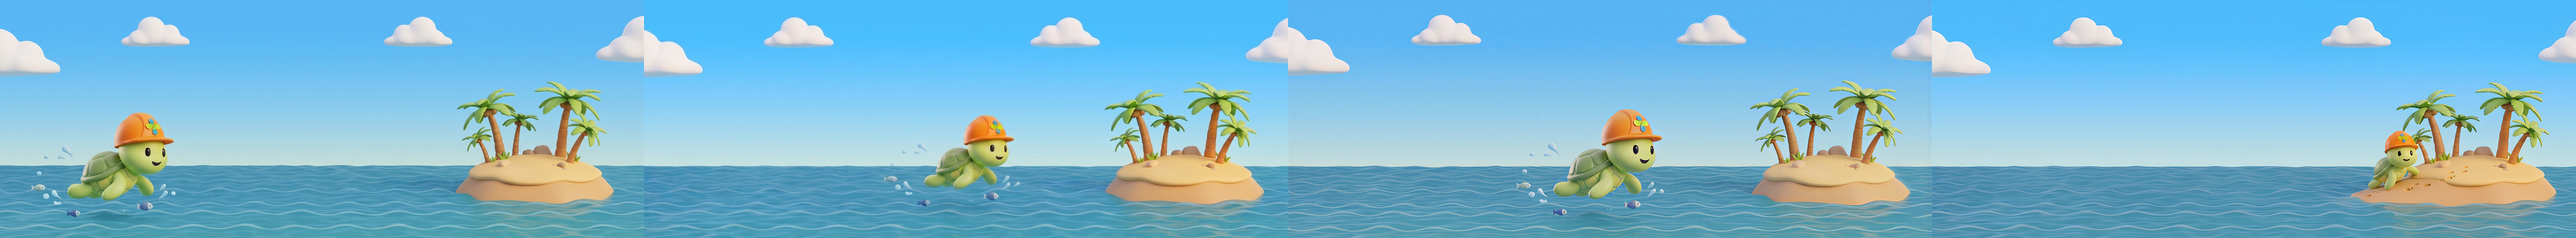
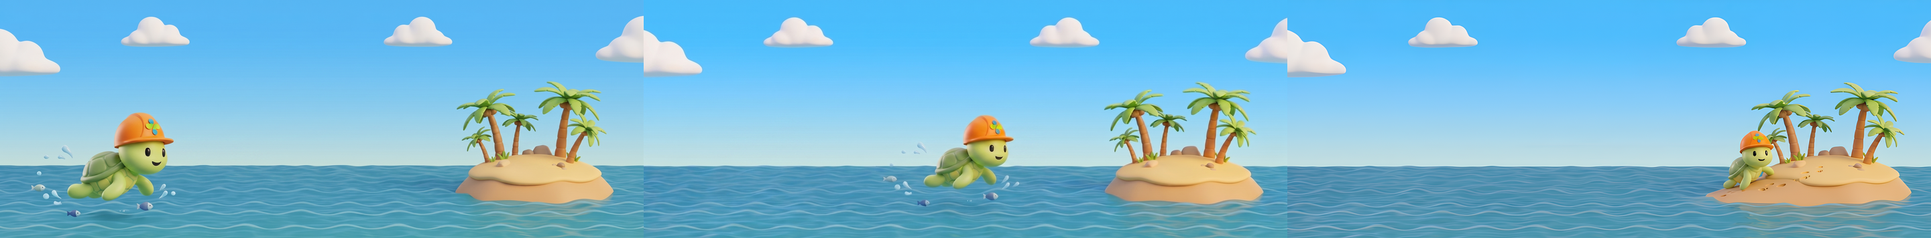
fix(ui): 로딩 이미지 수정 및 프로젝트 목록 카드 보기 추가

diff --git a/src/app/projects/page.tsx b/src/app/projects/page.tsx
@@ -85,6 +85,7 @@ export default function ProjectsPage() {
   const [status, setStatus] = useState(filterOptions.statuses[0] || '전체');
   const [sortBy, setSortBy] = useState<ProjectSortField>('name');
   const [sortDirection, setSortDirection] = useState<SortDirection>('asc');
+  const [viewMode, setViewMode] = useState<'list' | 'card'>('list');
 
   const loadProjects = useCallback(() => {
     let alive = true;
@@ -288,7 +289,7 @@ export default function ProjectsPage() {
           <div style={{ fontSize: 12, fontWeight: 900, color: C.g600 }}>전체 {visibleProjects.length}건</div>
         </div>
 
-        <div data-ui="projects.1" style={{ display: 'grid', gridTemplateColumns: 'minmax(145px, 1.1fr) minmax(110px, .85fr) minmax(105px, .78fr) minmax(105px, .78fr) minmax(214px, 1.45fr)', gap: 8, marginBottom: 12 }}>
+        <div data-ui="projects.1" style={{ display: 'grid', gridTemplateColumns: 'minmax(145px, 1.1fr) minmax(110px, .85fr) minmax(105px, .78fr) minmax(105px, .78fr) minmax(190px, 1.25fr) 164px', gap: 8, marginBottom: 12 }}>
           <input aria-label="프로젝트명" value={projectName} onChange={(event) => setProjectName(event.target.value)} placeholder="프로젝트 검색" style={inputStyle} />
           <input aria-label="계약번호" value={contractNumber} onChange={(event) => setContractNumber(event.target.value)} placeholder="계약번호" style={inputStyle} />
           <select aria-label="관리자" value={manager} onChange={(event) => setManager(event.target.value)} style={inputStyle}>
@@ -306,9 +307,27 @@ export default function ProjectsPage() {
             }}
             buttonStyle={inputStyle}
           />
+          <div aria-label="보기 방식" style={{ display: 'grid', gridTemplateColumns: '1fr 1fr', gap: 4, height: 38, padding: 3, border: `1px solid ${C.g200}`, borderRadius: 8, background: '#F7F8F7', boxSizing: 'border-box' }}>
+            {[
+              { key: 'list' as const, label: '목록' },
+              { key: 'card' as const, label: '카드' },
+            ].map((option) => {
+              const active = viewMode === option.key;
+              return (
+                <button
+                  key={option.key}
+                  type="button"
+                  onClick={() => setViewMode(option.key)}
+                  style={{ border: 'none', borderRadius: 6, background: active ? C.white : 'transparent', color: active ? C.primary : C.g600, fontFamily: 'inherit', fontSize: 12, fontWeight: 900, cursor: 'pointer', boxShadow: active ? '0 1px 4px rgba(31,55,43,.08)' : 'none' }}
+                >
+                  {option.label}
+                </button>
+              );
+            })}
+          </div>
         </div>
 
-        <div data-ui="projects.3" style={{ overflowX: 'auto', overflowY: 'visible', minHeight: 320, border: `1px solid ${C.g100}`, borderRadius: 8 }}>
+        {viewMode === 'list' ? <div data-ui="projects.3" style={{ overflowX: 'auto', overflowY: 'visible', minHeight: 320, border: `1px solid ${C.g100}`, borderRadius: 8 }}>
           <table style={{ minWidth: user.role !== 'project_manager' ? 1020 : 920, width: '100%', borderCollapse: 'collapse' }}>
             <thead>
               <tr>
@@ -351,15 +370,15 @@ export default function ProjectsPage() {
                 const progress = Math.min(100, Math.max(0, Number.parseInt(project.progressRate, 10) || 0));
                 const safetyBudgetUsage = Number.parseFloat(String(project.usageRate).replace(/[^\d.]/g, '')) || 0.1;
                 return (
-                  <tr key={project.id} onClick={() => router.push(`/projects/${project.id}`)} style={{ cursor: 'pointer' }}>
-                    <td style={{ padding: '13px 14px', borderTop: `1px solid ${C.g100}`, color: C.g800, fontSize: 13, fontWeight: 900 }}>
+                  <tr key={project.id} onClick={() => router.push(`/projects/${project.id}`)} style={{ cursor: 'pointer', background: hasSupplementRequiredMonth(project) ? '#FFF5F6' : C.white }}>
+                    <td style={{ padding: '13px 14px', borderTop: `1px solid ${hasSupplementRequiredMonth(project) ? '#F2C4C9' : C.g200}`, color: C.g800, fontSize: 13, fontWeight: 900 }}>
                       <span style={{ display: 'inline-flex', alignItems: 'center', gap: 8, minWidth: 0 }}>
                         {hasSupplementRequiredMonth(project) && <span aria-hidden="true" style={{ width: 8, height: 8, borderRadius: 999, background: C.danger, boxShadow: '0 0 0 3px rgba(229,57,53,.14)', flexShrink: 0 }} />}
                         <span style={{ whiteSpace: 'nowrap' }}>{project.constructionName}</span>
                       </span>
                     </td>
-                    <td style={{ padding: '13px 14px', borderTop: `1px solid ${C.g100}`, color: C.g600, fontSize: 13, fontWeight: 800, whiteSpace: 'nowrap' }}>{project.contractNumber}</td>
-                    <td style={{ padding: '13px 14px', borderTop: `1px solid ${C.g100}`, minWidth: 150 }}>
+                    <td style={{ padding: '13px 14px', borderTop: `1px solid ${hasSupplementRequiredMonth(project) ? '#F2C4C9' : C.g200}`, color: C.g600, fontSize: 13, fontWeight: 800, whiteSpace: 'nowrap' }}>{project.contractNumber}</td>
+                    <td style={{ padding: '13px 14px', borderTop: `1px solid ${hasSupplementRequiredMonth(project) ? '#F2C4C9' : C.g200}`, minWidth: 150 }}>
                       <div style={{ display: 'grid', gridTemplateColumns: 'minmax(0,1fr) 34px', gap: 8, alignItems: 'center' }}>
                         <div style={{ height: 8, background: '#E8EEEB', borderRadius: 999, overflow: 'hidden' }}>
                           <div style={{ width: `${progress}%`, height: '100%', background: progress >= 70 ? C.primary : progress >= 30 ? '#2F73B7' : '#C9545E' }} />
@@ -367,7 +386,7 @@ export default function ProjectsPage() {
                         <span style={{ textAlign: 'right', fontSize: 12, fontWeight: 900, color: C.g800 }}>{progress}%</span>
                       </div>
                     </td>
-                    <td style={{ padding: '13px 14px', borderTop: `1px solid ${C.g100}`, minWidth: 150 }}>
+                    <td style={{ padding: '13px 14px', borderTop: `1px solid ${hasSupplementRequiredMonth(project) ? '#F2C4C9' : C.g200}`, minWidth: 150 }}>
                       <div style={{ display: 'grid', gridTemplateColumns: 'minmax(0,1fr) 42px', gap: 8, alignItems: 'center' }}>
                         <div style={{ height: 8, background: '#E8EEEB', borderRadius: 999, overflow: 'hidden' }}>
                           <div style={{ width: `${Math.max(2, Math.min(100, safetyBudgetUsage))}%`, height: '100%', background: safetyBudgetUsage >= 80 ? '#C9545E' : safetyBudgetUsage >= 50 ? '#F0A22E' : C.primary }} />
@@ -375,10 +394,10 @@ export default function ProjectsPage() {
                         <span style={{ textAlign: 'right', fontSize: 12, fontWeight: 900, color: C.g800 }}>{safetyBudgetUsage}%</span>
                       </div>
                     </td>
-                    <td style={{ padding: '13px 14px', borderTop: `1px solid ${C.g100}`, color: C.g600, fontSize: 13, fontWeight: 800, whiteSpace: 'nowrap' }}>{project.period || '-'}</td>
-                    <td style={{ padding: '13px 14px', borderTop: `1px solid ${C.g100}`, color: C.g800, fontSize: 13, fontWeight: 800, whiteSpace: 'nowrap' }}>{project.manager}</td>
+                    <td style={{ padding: '13px 14px', borderTop: `1px solid ${hasSupplementRequiredMonth(project) ? '#F2C4C9' : C.g200}`, color: C.g600, fontSize: 13, fontWeight: 800, whiteSpace: 'nowrap' }}>{project.period || '-'}</td>
+                    <td style={{ padding: '13px 14px', borderTop: `1px solid ${hasSupplementRequiredMonth(project) ? '#F2C4C9' : C.g200}`, color: C.g800, fontSize: 13, fontWeight: 800, whiteSpace: 'nowrap' }}>{project.manager}</td>
                     {user.role !== 'project_manager' && (
-                      <td style={{ padding: '10px 14px', borderTop: `1px solid ${C.g100}`, whiteSpace: 'nowrap' }}>
+                      <td style={{ padding: '10px 14px', borderTop: `1px solid ${hasSupplementRequiredMonth(project) ? '#F2C4C9' : C.g200}`, whiteSpace: 'nowrap' }}>
                         <button
                           type="button"
                           onClick={(event) => {
@@ -397,7 +416,89 @@ export default function ProjectsPage() {
               })}
             </tbody>
           </table>
-        </div>
+        </div> : (
+          <div data-ui="projects.card-grid" style={{ minHeight: 320, display: 'grid', gridTemplateColumns: 'repeat(auto-fill, minmax(260px, 1fr))', gap: 12 }}>
+            {loading && <div style={{ gridColumn: '1 / -1', minHeight: 160, display: 'grid', placeItems: 'center', border: `1px solid ${C.g100}`, borderRadius: 12, color: C.g400, fontSize: 13, fontWeight: 900 }}>프로젝트 목록을 불러오는 중입니다.</div>}
+            {!loading && loadError && <div style={{ gridColumn: '1 / -1', minHeight: 160, display: 'grid', placeItems: 'center', border: `1px solid ${C.g100}`, borderRadius: 12, color: C.danger, fontSize: 13, fontWeight: 900 }}>{loadError}</div>}
+            {!loading && !loadError && visibleProjects.length === 0 && <div style={{ gridColumn: '1 / -1', minHeight: 160, display: 'grid', placeItems: 'center', border: `1px solid ${C.g100}`, borderRadius: 12, color: C.g400, fontSize: 13, fontWeight: 900 }}>조회된 프로젝트가 없습니다.</div>}
+            {!loading && !loadError && visibleProjects.map((project) => {
+              const progress = Math.min(100, Math.max(0, Number.parseInt(project.progressRate, 10) || 0));
+              const safetyBudgetUsage = Number.parseFloat(String(project.usageRate).replace(/[^\d.]/g, '')) || 0.1;
+              const hasSupplement = hasSupplementRequiredMonth(project);
+              return (
+                <div
+                  key={project.id}
+                  role="button"
+                  tabIndex={0}
+                  onClick={() => router.push(`/projects/${project.id}`)}
+                  onKeyDown={(event) => {
+                    if (event.key !== 'Enter' && event.key !== ' ') return;
+                    event.preventDefault();
+                    router.push(`/projects/${project.id}`);
+                  }}
+                  style={{ position: 'relative', minHeight: 218, padding: 16, border: `1px solid ${hasSupplement ? '#EFAEB7' : C.g200}`, borderRadius: 14, background: hasSupplement ? '#FFF5F6' : C.white, boxShadow: '0 12px 28px rgba(31,55,43,.08)', textAlign: 'left', fontFamily: 'inherit', cursor: 'pointer', display: 'flex', flexDirection: 'column', gap: 14 }}
+                >
+                  {hasSupplement && <span aria-hidden="true" style={{ position: 'absolute', top: 16, right: 16, width: 9, height: 9, borderRadius: 999, background: C.danger, boxShadow: '0 0 0 4px rgba(229,57,53,.13)' }} />}
+                  <div style={{ minWidth: 0, paddingRight: hasSupplement ? 16 : 0 }}>
+                    <div title={project.constructionName} style={{ fontSize: 16, fontWeight: 900, color: C.g800, whiteSpace: 'nowrap', overflow: 'hidden', textOverflow: 'ellipsis' }}>{project.constructionName}</div>
+                    <div style={{ marginTop: 5, fontSize: 12, fontWeight: 800, color: C.g600 }}>{project.contractNumber}</div>
+                  </div>
+                  <div style={{ display: 'grid', gridTemplateColumns: '1fr 1fr', gap: 8 }}>
+                    <div style={{ border: `1px solid ${C.g200}`, borderRadius: 10, padding: '10px 11px', background: 'transparent' }}>
+                      <div style={{ fontSize: 11, fontWeight: 900, color: C.g600 }}>담당자</div>
+                      <div title={project.manager} style={{ marginTop: 5, fontSize: 13, fontWeight: 900, color: C.g800, whiteSpace: 'nowrap', overflow: 'hidden', textOverflow: 'ellipsis' }}>{project.manager}</div>
+                    </div>
+                    <div style={{ border: `1px solid ${C.g200}`, borderRadius: 10, padding: '10px 11px', background: 'transparent' }}>
+                      <div style={{ fontSize: 11, fontWeight: 900, color: C.g600 }}>공사 기간</div>
+                      <div title={project.period || '-'} style={{ marginTop: 5, fontSize: 13, fontWeight: 900, color: C.g800, whiteSpace: 'nowrap', overflow: 'hidden', textOverflow: 'ellipsis' }}>{project.period || '-'}</div>
+                    </div>
+                  </div>
+                  <div style={{ display: 'grid', gap: 10 }}>
+                    <div>
+                      <div style={{ display: 'flex', alignItems: 'center', justifyContent: 'space-between', gap: 8, marginBottom: 6, fontSize: 12, fontWeight: 900, color: C.g600 }}>
+                        <span>공정률</span>
+                        <span style={{ color: C.g800 }}>{progress}%</span>
+                      </div>
+                      <div style={{ height: 8, borderRadius: 999, background: '#E8EEEB', overflow: 'hidden' }}>
+                        <div style={{ width: `${progress}%`, height: '100%', background: progress >= 70 ? C.primary : progress >= 30 ? '#2F73B7' : '#C9545E' }} />
+                      </div>
+                    </div>
+                    <div>
+                      <div style={{ display: 'flex', alignItems: 'center', justifyContent: 'space-between', gap: 8, marginBottom: 6, fontSize: 12, fontWeight: 900, color: C.g600 }}>
+                        <span>안전관리비 사용률</span>
+                        <span style={{ color: C.g800 }}>{safetyBudgetUsage}%</span>
+                      </div>
+                      <div style={{ height: 8, borderRadius: 999, background: '#E8EEEB', overflow: 'hidden' }}>
+                        <div style={{ width: `${Math.max(2, Math.min(100, safetyBudgetUsage))}%`, height: '100%', background: safetyBudgetUsage >= 80 ? '#C9545E' : safetyBudgetUsage >= 50 ? '#F0A22E' : C.primary }} />
+                      </div>
+                    </div>
+                  </div>
+                  {user.role !== 'project_manager' && (
+                    <span
+                      role="button"
+                      tabIndex={0}
+                      onClick={(event) => {
+                        event.stopPropagation();
+                        setDeleteError('');
+                        setDeleteTarget(project);
+                      }}
+                      onKeyDown={(event) => {
+                        if (event.key !== 'Enter' && event.key !== ' ') return;
+                        event.preventDefault();
+                        event.stopPropagation();
+                        setDeleteError('');
+                        setDeleteTarget(project);
+                      }}
+                      style={{ alignSelf: 'flex-end', marginTop: 'auto', border: `1px solid #FFCDD2`, borderRadius: 999, background: C.dangerBg, color: C.danger, height: 30, padding: '0 12px', display: 'inline-flex', alignItems: 'center', justifyContent: 'center', fontSize: 12, fontWeight: 900, cursor: 'pointer', boxSizing: 'border-box' }}
+                    >
+                      삭제
+                    </span>
+                  )}
+                </div>
+              );
+            })}
+          </div>
+        )}
         <div style={{ display: 'flex', alignItems: 'center', justifyContent: 'space-between', gap: 12, marginTop: 12, color: C.g600, fontSize: 12, fontWeight: 800 }}>
           <span>전체 {projects.length}건</span>
         </div>

diff --git a/src/features/project-tab/VerifyScreen.tsx b/src/features/project-tab/VerifyScreen.tsx
@@ -125,9 +125,9 @@ const extractValidationUsageStatementId = (source: unknown) =>
 const extractValidationRunState = (source: unknown): ValidationRunState => {
   const rawStatus = readNestedStringField(source, ['status', 'statusCode', 'status_code', 'state', 'resultCode', 'result_code']).toLowerCase();
   if (!rawStatus) return 'unknown';
-  if ([AGENT_LOG_STATUS.COMPLETED, AGENT_LOG_STATUS.SUCCEEDED, 'complete', 'done', 'success', 'passed', 'confirmed', 'approved'].includes(rawStatus)) return 'done';
-  if ([AGENT_LOG_STATUS.RUNNING, 'processing', 'pending', 'queued', 'started', 'in_progress'].includes(rawStatus)) return 'running';
-  if ([AGENT_LOG_STATUS.FAILED, 'failure', 'error', 'errored', 'cancelled', 'canceled'].includes(rawStatus)) return 'failed';
+  if ([AGENT_LOG_STATUS.SUCCESS, 'completed', 'complete', 'done', 'succeeded', 'passed', 'confirmed', 'approved'].includes(rawStatus)) return 'done';
+  if ([AGENT_LOG_STATUS.RUNNING, AGENT_LOG_STATUS.PENDING, 'processing', 'queued', 'started', 'in_progress'].includes(rawStatus)) return 'running';
+  if ([AGENT_LOG_STATUS.FAIL, AGENT_LOG_STATUS.CANCELED, 'failed', 'failure', 'error', 'errored', 'cancelled'].includes(rawStatus)) return 'failed';
   return 'unknown';
 };
 

diff --git a/src/features/project-tab/ArchiveScreen.tsx b/src/features/project-tab/ArchiveScreen.tsx
@@ -1213,7 +1213,7 @@ export default function ArchiveScreen({ projectId, usageStatementId, matchReady,
             }} onRemove={removeHierarchyFile} onRename={renameHierarchyFile} onMove={moveHierarchyFile} onEditUsageItem={editUsageItem} onAddUsageItem={openAddUsageItemModal} onDeleteUsageItem={deleteUsageItem} onUpload={uploadFilesToSection} onDownloadFile={openFileDownload} fileHeaderAction={uploadCompleteAction}/>
           {archiveVerificationStep && archiveLoadingMessage && (
             <div style={{ position: 'absolute', inset: 0, zIndex: 20, display: 'grid', placeItems: 'center', padding: 24, background: 'rgba(247, 252, 248, .62)', backdropFilter: 'blur(1px)' }}>
-              <div style={{ width: 'min(100%, 540px)', background: C.white, borderRadius: 18, border: `1px solid ${C.g200}`, boxShadow: '0 18px 44px rgba(0,0,0,.18)', padding: 22 }}>
+              <div style={{ width: 'min(100%, 680px)', background: C.white, borderRadius: 18, border: `1px solid ${C.g200}`, boxShadow: '0 18px 44px rgba(0,0,0,.18)', padding: 22 }}>
                 {renderArchiveVerificationLoader()}
               </div>
             </div>

diff --git a/src/styles.css b/src/styles.css
@@ -148,21 +148,22 @@
   }
   .archive-loader-ocean {
     position: relative;
-    height: 220px;
+    aspect-ratio: 2.7 / 1;
+    min-height: 180px;
+    max-height: 356px;
     border-radius: 16px;
     overflow: hidden;
     background-image: url('/assets/loading-island-sequence-strip.png');
-    background-size: 400% 100%;
+    background-size: 300% 100%;
     background-position: 0% 50%;
     border: 1px solid var(--c-g200);
     box-shadow: inset 0 1px 0 rgba(255,255,255,.64), 0 16px 28px rgba(31,55,43,.07);
-    animation: loadingIslandSequence 4.8s linear infinite;
+    animation: loadingIslandSequence 3.6s linear infinite;
   }
   @keyframes loadingIslandSequence {
-    0%, 24.99% { background-position: 0% 50%; }
-    25%, 49.99% { background-position: 33.3333% 50%; }
-    50%, 74.99% { background-position: 66.6667% 50%; }
-    75%, 100% { background-position: 100% 50%; }
+    0%, 33.32% { background-position: 0% 50%; }
+    33.33%, 66.65% { background-position: 50% 50%; }
+    66.66%, 100% { background-position: 100% 50%; }
   }
   @media (max-width: 640px) {
     .inline-loader-shell {
